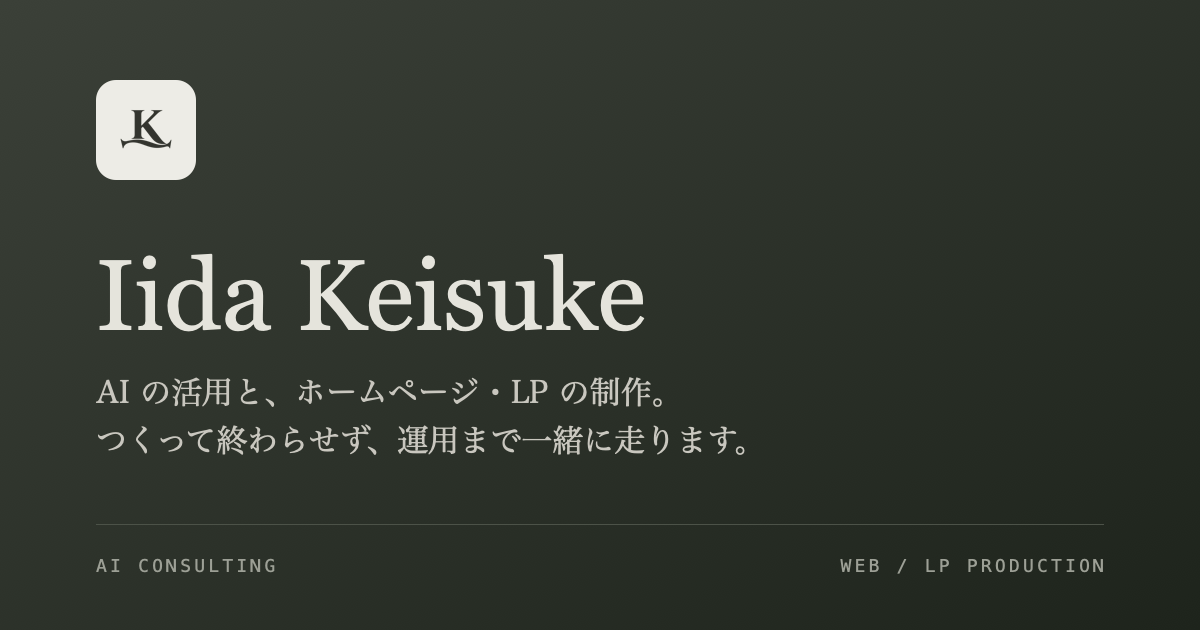
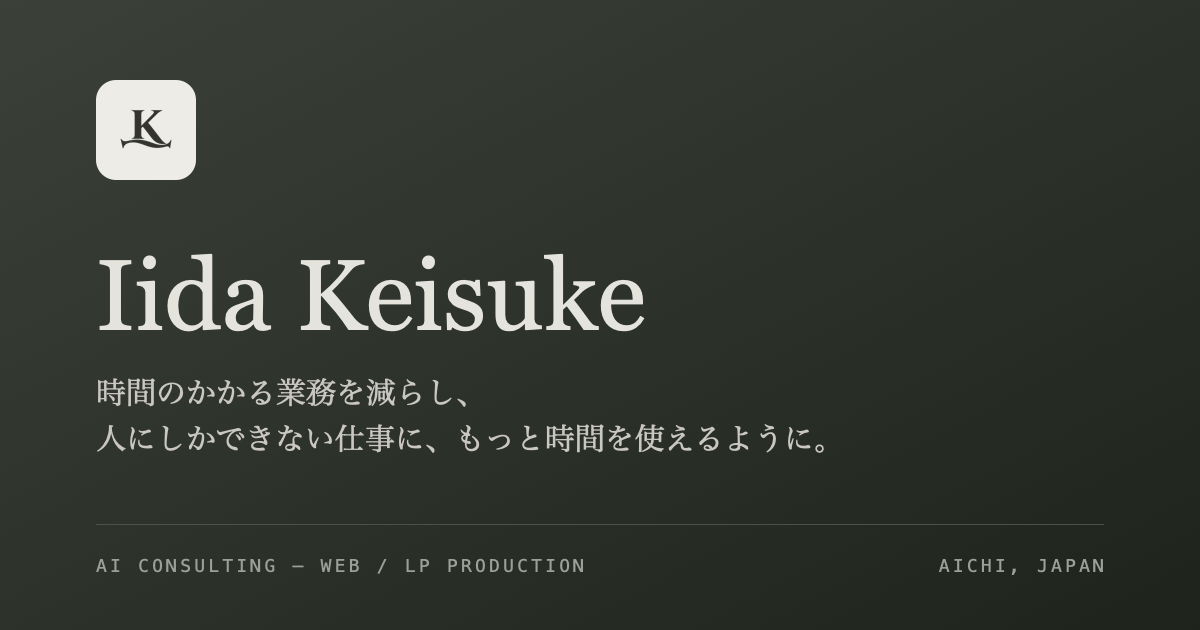
Darken the particle monogram and add Aichi to the profile labels
Particle ink moves from #3B4038 to --ink #33342E and opacity from
0.42/0.6 to 0.58/0.68, so the IK mark reads more clearly against the
light background. The values now live in one INK object at the top of
the field code, so the density is easy to retune.

Aichi appears as a location label in the four places that already carry
the mono profile block — hero, About card, footer, and a 拠点 row on the
contact page — rather than being worked into the prose.

The OG card is regenerated: its lead line was still the old hero copy,
and it now carries AICHI, JAPAN. Meta and og descriptions follow.

diff --git a/index.html b/index.html
@@ -4,7 +4,7 @@
 <meta charset="utf-8">
 <meta name="viewport" content="width=device-width, initial-scale=1">
 <title>Iida Keisuke — AI 活用と HP・LP 制作</title>
-<meta name="description" content="飯田啓介のポートフォリオ。AI 活用の相談・実装と、HP・LP の制作から運用までを一貫してご提案します。">
+<meta name="description" content="愛知を拠点に、AI を活用した業務効率化の相談・実装と、HP・LP の制作から運用までをご提案します。飯田啓介のポートフォリオ。">
 <meta name="theme-color" content="#D9D9D3">
 <link rel="icon" href="uploads/ik-mark.png" type="image/png">
 <link rel="apple-touch-icon" href="uploads/ik-mark.png">
@@ -23,12 +23,12 @@
 <meta property="og:locale" content="ja_JP">
 <meta property="og:site_name" content="Iida Keisuke">
 <meta property="og:title" content="Iida Keisuke — AI 活用と HP・LP 制作">
-<meta property="og:description" content="AI 活用の相談・実装と、HP・LP の制作から運用まで。つくって終わらせず、運用まで一緒に走ります。">
+<meta property="og:description" content="時間のかかる業務を減らし、人にしかできない仕事に、もっと時間を使えるように。愛知を拠点に AI 活用と HP・LP 制作をしています。">
 <meta property="og:url" content="https://iida-keisuke.pages.dev/">
 <meta property="og:image" content="https://iida-keisuke.pages.dev/og-image.png">
 <meta property="og:image:width" content="1200">
 <meta property="og:image:height" content="630">
-<meta property="og:image:alt" content="Iida Keisuke — AI consulting / Web・LP production">
+<meta property="og:image:alt" content="Iida Keisuke — AI consulting / Web・LP production, Aichi Japan">
 <meta name="twitter:card" content="summary_large_image">
 <link rel="preconnect" href="https://fonts.googleapis.com">
 <link rel="preconnect" href="https://fonts.gstatic.com" crossorigin>
@@ -59,10 +59,10 @@
     <header class="hero shell">
       <div class="hero__intro">
         <h1 class="hero__name">Iida Keisuke</h1>
-        <p class="hero__lead">AI の活用と、ホームページ・LP の制作。<br>つくって終わらせず、運用まで一緒に走ります。</p>
+        <p class="hero__lead">時間のかかる業務を減らし、<br>人にしかできない仕事に、もっと時間を使えるように。</p>
         <div class="hero__meta">
           <img class="hero__avatar" src="uploads/D0B9870A-17F1-480D-83F3-41072167A818_1_102_a.jpeg" alt="飯田啓介のプロフィール写真" width="44" height="44">
-          <span class="mono-sm">AI consulting<br>Web / LP production</span>
+          <span class="mono-sm">AI consulting<br>Web / LP production<br>Based in Aichi, Japan</span>
         </div>
       </div>
       <canvas class="hero__canvas" data-ik="hero" role="img" aria-label="IK モノグラムを象る光の粒子アニメーション"></canvas>
@@ -295,7 +295,7 @@
           <div class="portrait">
             <img src="uploads/AD8A0684-EFC5-4C89-AA49-F36AAA071E09_1_102_o.jpeg" alt="飯田啓介のポートレート" loading="lazy">
           </div>
-          <p class="mono-sm mt-24">Iida Keisuke<br>AI consulting / Web production<br>Japan</p>
+          <p class="mono-sm mt-24">Iida Keisuke<br>AI consulting / Web production<br>Aichi, Japan</p>
         </div>
         <div>
           <p class="prose prose--first">現職では、AIを実際の業務に組み込みながら、業務効率化や仕組みづくりに取り組んでいます。</p>
@@ -351,6 +351,7 @@
           <dl class="deflist">
             <div><dt class="label label--sm">Email</dt><dd class="maildd"><a href="mailto:keahi0427@icloud.com?subject=%E3%81%8A%E5%95%8F%E3%81%84%E5%90%88%E3%82%8F%E3%81%9B%EF%BC%88%E3%83%9D%E3%83%BC%E3%83%88%E3%83%95%E3%82%A9%E3%83%AA%E3%82%AA%E3%82%B5%E3%82%A4%E3%83%88%E3%82%88%E3%82%8A%EF%BC%89">keahi0427@icloud.com <span aria-hidden="true">↗</span></a><button type="button" class="copybtn" data-copy-mail>コピー</button></dd></div>
             <div><dt class="label label--sm">ご相談内容</dt><dd>AI 活用 / HP・LP 制作</dd></div>
+            <div><dt class="label label--sm">拠点</dt><dd>愛知県</dd></div>
             <div><dt class="label label--sm">返信</dt><dd>2営業日以内</dd></div>
           </dl>
         </div>
@@ -388,7 +389,7 @@
 <footer class="shell site-footer">
   <div class="site-footer__mark">
     <img src="uploads/ik-mark.png" alt="Iida Keisuke ロゴ" width="28" height="28">
-    <span class="mono-sm">AI consulting<br>Web / LP production</span>
+    <span class="mono-sm">AI consulting / Web / LP production<br>Aichi, Japan</span>
   </div>
   <nav class="site-footer__nav" aria-label="フッターナビゲーション">
     <a href="#/">Home</a><a href="#/works">Works</a><a href="#/about">About</a><a href="#/contact">Contact</a>

diff --git a/app.js b/app.js
@@ -128,6 +128,15 @@
     return s;
   }
 
+  // 粒子の濃さ。alpha を上げると IK マークがはっきり出る（0〜1）。
+  // dim は「光る粒」以外の粒子の減衰率で、下げるとコントラストが強くなる。
+  var INK = {
+    base: 'rgba(51,52,46,ALPHA)',   // --ink #33342E
+    hot:  'rgba(92,92,85,ALPHA)',   // --muted #5C5C55
+    alpha: 0.58,
+    dim: 0.68
+  };
+
   var SPRITE = null, SPRITE_HOT = null;
 
   function startField(canvas, logo) {
@@ -141,8 +150,8 @@
     var tainted = false;
 
     if (!SPRITE) {
-      SPRITE = makeSprite('rgba(59,64,56,ALPHA)', 24);
-      SPRITE_HOT = makeSprite('rgba(120,124,112,ALPHA)', 34);
+      SPRITE = makeSprite(INK.base, 24);
+      SPRITE_HOT = makeSprite(INK.hot, 34);
     }
 
     function sample() {
@@ -221,7 +230,7 @@
         if (prefersReduced) { p.x = gx; p.y = gy; } else { p.x += p.vx; p.y += p.vy; }
 
         var r = p.sz * (p.hot ? 6 : 4.6) * (1 + burst * 0.25);
-        ctx.globalAlpha = 0.42 * (p.hot ? 1 : 0.6) * (1 - burst * 0.3);
+        ctx.globalAlpha = INK.alpha * (p.hot ? 1 : INK.dim) * (1 - burst * 0.3);
         ctx.drawImage(p.hot ? SPRITE_HOT : SPRITE, p.x - r, p.y - r, r * 2, r * 2);
       }
       ctx.globalAlpha = 1;
